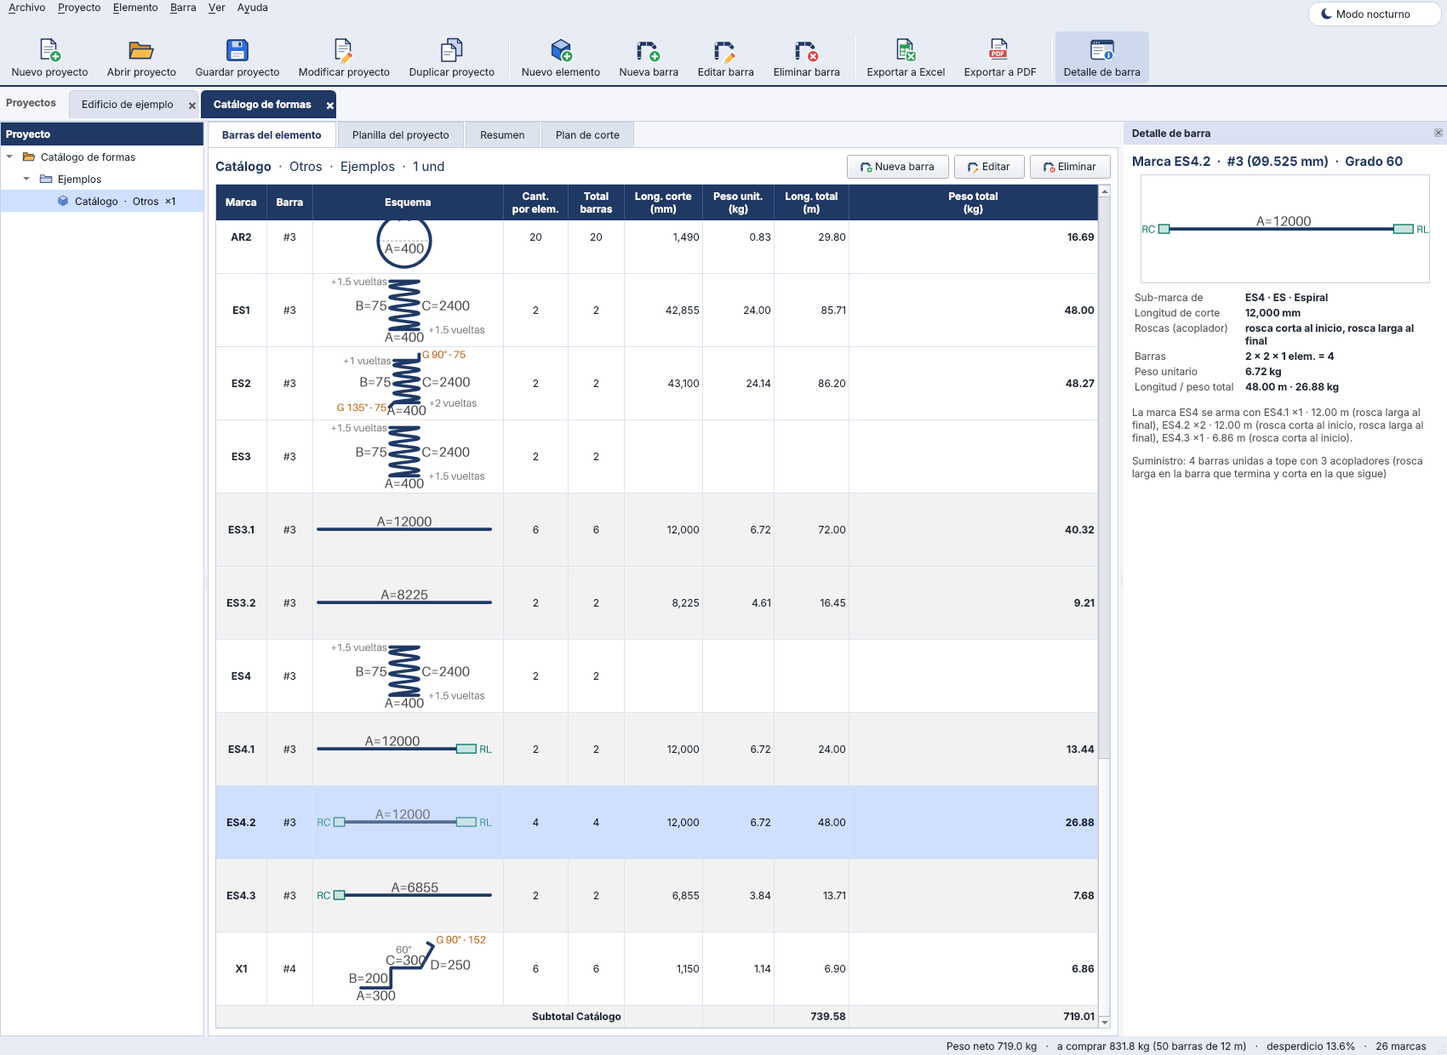
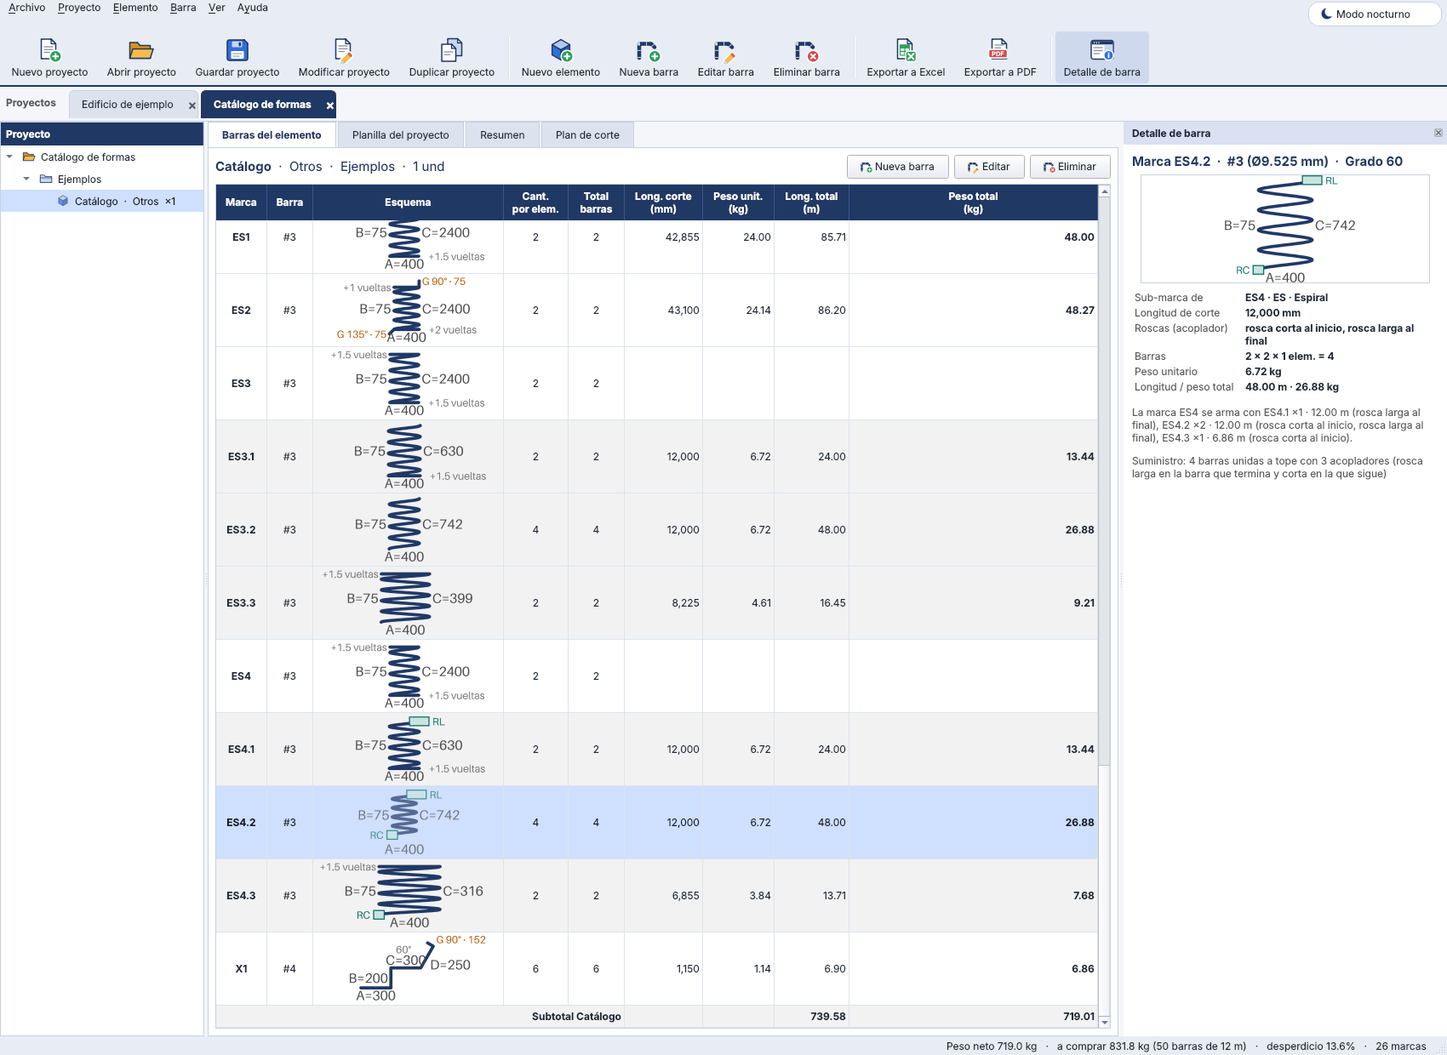
Sub-marks of a spiral are spirals too
Each sub-mark of a split spiral is drawn as a piece of the same helix (same diameter and pitch, with the height its
length gives), with the flat turns and hooks only on the first and last bars and the joint threads drawn on the ends.
The first and last bars are no longer grouped with the intermediate ones even when they have the same length. A bar that
only holds the flat turns or the hook is drawn straight.

Claude-Session: https://claude.ai/code/session_019hrinij2rWt56AxkR8wjd9

diff --git a/tests/test_spiral_supply.py b/tests/test_spiral_supply.py
@@ -95,9 +95,20 @@ def test_a_long_spiral_from_bars_is_lapped_by_default_with_the_standard_lap():
     assert joints == math.ceil((total - 609.6) / (STOCK - 609.6) - 1e-9) - 1
     assert supply.material_mm == pytest.approx(total + joints * standard_lap_mm(N4))
     assert supply.threads == () and supply.warnings == () and f"{joints} traslapes de 610 mm" in supply.notes[0]
-    # con traslape las barras no llevan roscas: las completas son una sola sub-marca y el resto, otra
-    assert [(p.length_mm, p.count) for p in supply.parts] == [(STOCK, joints), (pytest.approx(supply.pieces_mm[-1]), 1)]
-    assert [name for name, _ in supply.sub_marks("F1")] == ["F1.1", "F1.2"]
+    # con traslape las barras no llevan roscas, pero la primera (vueltas planas) y la última no son iguales a las intermedias
+    assert [(p.length_mm, p.count) for p in supply.parts] == [(STOCK, 1), (STOCK, joints - 1),
+                                                              (pytest.approx(supply.pieces_mm[-1]), 1)]
+    assert [(p.first, p.last) for p in supply.parts] == [(True, False), (False, False), (False, True)]
+    assert [name for name, _ in supply.sub_marks("F1")] == ["F1.1", "F1.2", "F1.3"]
+
+
+def test_a_spiral_without_flat_turns_or_hooks_groups_all_the_full_bars_in_one_sub_mark():
+    supply = Spiral(**BIG, turns_start=0, turns_end=0, supply_mode="bars").supply(N4, STOCK)
+    joints = len(supply.pieces_mm) - 1
+    assert [(p.length_mm, p.count, p.first, p.last) for p in supply.parts] == [
+        (STOCK, joints, False, False), (pytest.approx(supply.pieces_mm[-1]), 1, False, False)]
+    hooked = Spiral(**BIG, turns_start=0, turns_end=0, hook_end=90, supply_mode="bars").supply(N4, STOCK)
+    assert [(p.count, p.first, p.last) for p in hooked.parts] == [(joints, False, False), (1, False, True)]
 
 
 def test_a_custom_lap_is_used_and_a_short_one_gets_a_warning():
@@ -207,12 +218,12 @@ def test_a_lapped_spiral_weighs_and_counts_the_laps_and_enters_the_cutting_plan_
     assert sum(length * count for length, count in summary.pieces.items()) / 1000 == pytest.approx(line.total_length_m)
     assert summary.pieces[STOCK] == 6 * joints  # barras comerciales completas
     assert summary.coil_length_m == 0 and summary.stock_bars >= 6 * joints + 1
-    assert summary.marks_for(STOCK) == ("C-1/F1.1",) and "C-1/F1.2" in summary.marks_for(line.parts[1].length_mm)
+    assert summary.marks_for(STOCK) == ("C-1/F1.1", "C-1/F1.2") and summary.marks_for(line.parts[2].length_mm) == ("C-1/F1.3",)
     assert line.pieces_text.startswith(f"{joints} × 12.00 m + ")
     # los totales salen de las sub-marcas: suman lo mismo que la marca
     assert sum(p.total_weight_kg for p in line.parts) == pytest.approx(line.total_weight_kg)
     assert sum(p.total_length_m for p in line.parts) == pytest.approx(line.total_length_m)
-    assert [p.total_bars for p in line.parts] == [6 * joints, 6]
+    assert [p.total_bars for p in line.parts] == [6, 6 * (joints - 1), 6]
     assert result.total_weight_kg == pytest.approx(line.total_weight_kg)
 
 
@@ -330,3 +341,80 @@ def test_exports_list_the_sub_marks_as_rows_with_their_own_weights(tmp_path):
     assert "Suministro con uniones" not in texts
     pdf = PdfExporter().export(result, tmp_path / "p.pdf")
     assert pdf.stat().st_size > 5_000
+
+
+# ------------------------------------------------------------------ las sub-marcas de una espiral también son espirales
+def _part_shapes(shape, rebar=N4):
+    result = bbs(shape).lines[0]
+    return result, [part.shape for part in result.parts]
+
+
+def test_the_sub_marks_of_a_spiral_are_spirals_with_the_same_diameter_and_pitch():
+    line, shapes = _part_shapes(Spiral(**BIG, supply_mode="bars", joint="coupler"))
+    assert [type(sh).__name__ for sh in shapes] == ["Spiral"] * 3
+    assert all((sh.diameter, sh.pitch) == (1100.0, 100.0) for sh in shapes)
+    for part, sh in zip(line.parts, shapes):
+        assert sh.cut_length(N4).total_mm == pytest.approx(part.length_mm, abs=0.01)  # la espiral mide lo que la barra
+
+
+def test_flat_turns_and_hooks_go_only_on_the_first_and_last_bars_and_threads_on_the_joint_ends():
+    shape = Spiral(**BIG, turns_start=2.0, turns_end=1.0, hook_start=135, hook_end=90, supply_mode="bars", joint="coupler")
+    _, (first, middle, last) = _part_shapes(shape)
+    assert (first.turns_start, first.turns_end, first.hook_start, first.hook_end) == (2.0, 0.0, 135, 0)
+    assert (middle.turns_start, middle.turns_end, middle.hook_start, middle.hook_end) == (0.0, 0.0, 0, 0)
+    assert (last.turns_start, last.turns_end, last.hook_start, last.hook_end) == (0.0, 1.0, 0, 90)
+    assert (first.coupler_start, first.coupler_end) == ("none", "long")
+    assert (middle.coupler_start, middle.coupler_end) == ("short", "long")
+    assert (last.coupler_start, last.coupler_end) == ("short", "none")
+
+
+def test_the_turns_of_the_sub_marks_add_up_to_the_turns_of_the_spiral():
+    shape = Spiral(**BIG, supply_mode="bars", joint="coupler")
+    line, shapes = _part_shapes(shape)
+    total = sum(sh.turns(N4) * part.count for sh, part in zip(shapes, line.parts))
+    assert total == pytest.approx(shape.turns(N4), abs=0.1 * len(line.supply.pieces_mm))  # + el redondeo de 5 mm por barra
+
+
+def test_a_lapped_spiral_gives_spiral_sub_marks_without_threads():
+    _, shapes = _part_shapes(Spiral(**BIG, supply_mode="bars"))
+    assert [type(sh).__name__ for sh in shapes] == ["Spiral"] * 3
+    assert all((sh.coupler_start, sh.coupler_end) == ("none", "none") for sh in shapes)
+
+
+def test_a_last_bar_with_less_than_a_turn_of_helix_is_still_a_spiral_figure():
+    _, shapes = _part_shapes(Spiral(**BIG, supply_mode="bars"))  # a la última barra le caben 1.5 vueltas planas y 0.7 de hélice
+    last = shapes[-1]
+    assert type(last).__name__ == "Spiral" and last.turns_end == 1.5 and last.turns(N4) < 1.0
+
+
+def test_a_bar_that_only_holds_the_flat_turns_is_drawn_straight():
+    # 12.3 m desarrollados: la última barra mide ~0.3 m, menos que las vueltas planas del final (1.8 m): no hay hélice
+    shape = Spiral(400, 75, 545.0, supply_mode="bars", joint="coupler")
+    assert 12_250 < shape.cut_length(N4).total_mm < 12_450
+    line, shapes = _part_shapes(shape)
+    assert line.parts[-1].length_mm < 450 and type(shapes[-1]).__name__ == "StraightBar"
+    assert (shapes[-1].coupler_start, shapes[-1].coupler_end) == ("short", "none")
+    assert type(shapes[0]).__name__ == "Spiral"
+
+
+def test_the_spiral_sketch_draws_the_thread_boxes_of_a_sub_mark():
+    sketch = Spiral(400, 75, 800, coupler_start="short", coupler_end="long").sketch()
+    assert [(box.kind, box.text) for box in sketch.boxes] == [("short", "RC"), ("long", "RL")]
+    assert Spiral(400, 75, 800).sketch().boxes == ()
+
+
+def test_a_spiral_end_with_a_hook_does_not_accept_a_thread():
+    with pytest.raises(GeometryError, match="gancho"):
+        Spiral(400, 75, 800, hook_start=135, coupler_start="short")
+    Spiral(400, 75, 800, hook_start=135, coupler_end="short")  # el otro extremo sí
+
+
+def test_the_thread_parameters_of_the_spiral_are_not_in_the_form_but_are_saved():
+    hidden = {spec.name for spec in Spiral.parameters() if spec.hidden}
+    assert hidden == {"coupler_start", "coupler_end"}
+    shape = Spiral(400, 75, 800, coupler_start="short", coupler_end="long")
+    project = Project(name="P")
+    element = StructuralElement("C-1", ElementType.COLUMN)
+    element.add_group("F1", N4, shape, 1)
+    project.elements.append(element)
+    assert project_from_dict(project_to_dict(project)).elements[0].groups[0].shape == shape

diff --git a/core/shape_templates.py b/core/shape_templates.py
@@ -31,8 +31,8 @@ import math
 from dataclasses import dataclass, replace
 from typing import ClassVar
 
-from core.coupler import COUPLER_CHOICES
-from core.cutlength import CutLength, Supply
+from core.coupler import COUPLER_CHOICES, COUPLER_CODES
+from core.cutlength import BarPart, CutLength, Supply
 from core.geometry import GeometryError
 from core.params import param
 from core.polybar import (
@@ -69,7 +69,7 @@ from core.shape_codes import (
     migrate_single_hook,
     register_shape,
 )
-from core.sketch import DimLabel, Sketch, dimension_text, format_dimension, proportional
+from core.sketch import Box, DimLabel, Sketch, dimension_text, format_dimension, proportional
 
 
 def _use(style: str) -> BendUse:
@@ -488,6 +488,15 @@ class Spiral(ShapeCode):
                                  auto_text="estándar (48·d, mín. 300 mm)")
     joint_threads: str = param("Roscas de la unión", "choice", THREADS_LONG_SHORT, choices=JOINT_THREAD_CHOICES,
                                depends=(("supply_mode", SUPPLY_BARS), ("joint", JOINT_COUPLER)))
+    # Roscas de los extremos de un tramo de espiral (las de las uniones por acoplador): no se editan, las pone el cálculo
+    # de las sub-marcas para dibujar cada barra con su rosca.
+    coupler_start: str = param("Rosca inicial", "choice", "none", choices=COUPLER_CHOICES, hidden=True)
+    coupler_end: str = param("Rosca final", "choice", "none", choices=COUPLER_CHOICES, hidden=True)
+
+    def validate(self) -> None:
+        for kind, hook, name in ((self.coupler_start, self.hook_start, "inicial"), (self.coupler_end, self.hook_end, "final")):
+            if kind != "none" and hook:
+                raise GeometryError(f"Forma {self.code}: el extremo {name} termina en gancho y no admite rosca para acoplador.")
 
     @classmethod
     def migrate(cls, parameters: dict[str, object]) -> dict[str, object]:
@@ -546,8 +555,40 @@ class Spiral(ShapeCode):
             return Supply((total,), coil=True, notes=("Suministro: carrete (rollo continuo), sin uniones",))
         if total <= stock_length_mm + 1e-6:
             return Supply((total,), notes=("Suministro: una barra individual, sin uniones",))
+        # las vueltas planas y los ganchos son de la primera y la última barra: no se agrupan con las intermedias
+        special = (self.turns_start > 0 or bool(self.hook_start), self.turns_end > 0 or bool(self.hook_end))
         return joined_supply(rebar, total, stock_length_mm, joint=self.joint, lap_mm=self.lap_mm,
-                             threads=self.joint_threads)
+                             threads=self.joint_threads, special_ends=special)
+
+    def part_shape(self, rebar: Rebar, part: BarPart) -> ShapeCode:
+        """Cada sub-marca es también una espiral: un tramo de la misma hélice (mismo Ø y paso, con la altura que da su largo).
+
+        Las vueltas planas y el gancho de cada extremo van solo en la primera y la última barra, y las roscas de la unión
+        en los extremos que corresponden. Es una figura para dibujar (su hélice puede tener menos de una vuelta, y
+        entonces no pasa la validación de una espiral completa); si a la barra solo le caben las vueltas planas o el
+        gancho, no hay hélice y se dibuja recta.
+        """
+        d = rebar.diameter_mm
+        centre = math.pi * (self.diameter - d)
+        spec_start, spec_end = self._specs()
+        try:
+            hooks = hook_allowance(rebar, _round_use(rebar),
+                                   (spec_start if part.first else None, spec_end if part.last else None))
+            turns_start = self.turns_start if part.first else 0.0
+            turns_end = self.turns_end if part.last else 0.0
+            helix = part.length_mm - (turns_start + turns_end) * centre - hooks.arc_mm - hooks.extension_mm
+            turns = helix / math.hypot(centre, self.pitch)
+            if turns <= 1e-9:  # solo caben las vueltas planas o el gancho: no hay hélice que dibujar
+                return super().part_shape(rebar, part)
+            return Spiral(
+                diameter=self.diameter, pitch=self.pitch, height=turns * self.pitch + d,
+                turns_start=turns_start, turns_end=turns_end,
+                hook_start=self.hook_start if part.first else 0, ext_start=self.ext_start if part.first else None,
+                hook_end=self.hook_end if part.last else 0, ext_end=self.ext_end if part.last else None,
+                coupler_start=part.start_thread or "none", coupler_end=part.end_thread or "none",
+            )
+        except GeometryError:
+            return super().part_shape(rebar, part)
 
     def sketch(self, rebar: Rebar | None = None) -> Sketch:
         width, height = proportional([self.diameter, self.height], 0.6)
@@ -590,7 +631,11 @@ class Spiral(ShapeCode):
             if infos[slot] is not None:
                 labels.append(DimLabel(hook_label_text([infos[slot]]), tip,
                                        (-1.0, 0.0) if slot == 0 else (1.0, 0.0), kind="hook"))
-        return Sketch(paths=(tuple(path),), labels=tuple(labels))
+        boxes = tuple(Box(point, heading, kind, COUPLER_CODES[kind])
+                      for kind, point, heading in ((self.coupler_start, (0.0, 0.0), 180.0),
+                                                   (self.coupler_end, (width, height), 0.0))
+                      if kind in COUPLER_CODES)
+        return Sketch(paths=(tuple(path),), labels=tuple(labels), boxes=boxes)
 
 
 # ------------------------------------------------------------------ personalizada

diff --git a/core/splice.py b/core/splice.py
@@ -92,12 +92,15 @@ def pieces_text(pieces_mm: Iterable[float]) -> str:
 
 
 def plan_parts(total_mm: float, stock_mm: float, *, joint: str, lap_mm: float = 0.0,
-               threads: str = THREADS_LONG_SHORT, start_thread: str = "", end_thread: str = "") -> tuple[BarPart, ...]:
+               threads: str = THREADS_LONG_SHORT, start_thread: str = "", end_thread: str = "",
+               special_ends: tuple[bool, bool] = (False, False)) -> tuple[BarPart, ...]:
     """Sub-marcas en las que se divide una pieza de ``total_mm`` con barras de ``stock_mm``.
 
     ``start_thread`` y ``end_thread`` son las roscas propias de la pieza en sus dos puntas (las de una barra recta con
     rosca para otro acoplador); las de las uniones salen de ``threads``. Las barras idénticas se agrupan en una sub-marca:
-    con un acoplador queda la primera, las intermedias (``count`` > 1) y la última.
+    con un acoplador queda la primera, las intermedias (``count`` > 1) y la última. ``special_ends`` indica si el inicio y
+    el final de la pieza tienen algo propio (las vueltas planas y los ganchos de una espiral): entonces la primera o la
+    última barra no se agrupa con las intermedias aunque midan lo mismo.
     """
     if joint == JOINT_COUPLER:
         pieces = coupler_pieces(total_mm, stock_mm)
@@ -106,27 +109,31 @@ def plan_parts(total_mm: float, stock_mm: float, *, joint: str, lap_mm: float = 
         pieces = lap_pieces(total_mm, stock_mm, lap_mm)
         ending = following = ""
     last = len(pieces) - 1
-    grouped: dict[tuple[float, str, str], int] = {}
+    grouped: dict[tuple[float, str, str, bool, bool], int] = {}
     for index, length in enumerate(pieces):
-        bar = (length, start_thread if index == 0 else following, end_thread if index == last else ending)
+        bar = (length, start_thread if index == 0 else following, end_thread if index == last else ending,
+               special_ends[0] and index == 0, special_ends[1] and index == last)
         grouped[bar] = grouped.get(bar, 0) + 1
-    return tuple(BarPart(length, count, start, end) for (length, start, end), count in grouped.items())
+    return tuple(BarPart(length, count, start, end, first, final)
+                 for (length, start, end, first, final), count in grouped.items())
 
 
 def joined_supply(rebar: Rebar, total_mm: float, stock_mm: float, *, joint: str, lap_mm: float | None = None,
-                  threads: str = THREADS_LONG_SHORT, start_thread: str = "", end_thread: str = "") -> Supply:
+                  threads: str = THREADS_LONG_SHORT, start_thread: str = "", end_thread: str = "",
+                  special_ends: tuple[bool, bool] = (False, False)) -> Supply:
     """Barras que arman una pieza de ``total_mm`` mayor que la barra comercial, con sus uniones, notas y avisos."""
     warnings: tuple[str, ...] = ()
     if joint == JOINT_COUPLER:
         parts = plan_parts(total_mm, stock_mm, joint=joint, threads=threads, start_thread=start_thread,
-                           end_thread=end_thread)
+                           end_thread=end_thread, special_ends=special_ends)
         bars = sum(part.count for part in parts)
         notes = (f"Suministro: {bars} barras unidas a tope con {bars - 1} acopladores "
                  f"({_JOINT_THREAD_TEXT[threads]})",)
     else:
         standard = standard_lap_mm(rebar)
         lap = standard if lap_mm is None else lap_mm
-        parts = plan_parts(total_mm, stock_mm, joint=joint, lap_mm=lap, start_thread=start_thread, end_thread=end_thread)
+        parts = plan_parts(total_mm, stock_mm, joint=joint, lap_mm=lap, start_thread=start_thread, end_thread=end_thread,
+                           special_ends=special_ends)
         bars = sum(part.count for part in parts)
         if lap < standard - _EPS:
             warnings = (f"Traslape de {lap:.0f} mm menor que el de norma para espirales "

diff --git a/tests/test_gui.py b/tests/test_gui.py
@@ -522,7 +522,7 @@ def test_other_element_type_and_project_remnant_setting(qapp, window):
 def test_open_catalog_example_from_the_menu(window):
     window.open_catalog()
     assert window.project.name == "Catálogo de formas" and not window.modified
-    assert window.bars_table.rowCount() == 35  # 26 marcas + 8 sub-marcas (R4, ES3, ES4) + subtotal
+    assert window.bars_table.rowCount() == 36  # 26 marcas + 9 sub-marcas (R4, ES3, ES4) + subtotal
     pictures = [r for r in range(window.bars_table.rowCount()) if window.bars_table.line_for_row(r)]
     assert all(not window.bars_table.item(r, 2).icon().isNull() for r in pictures)
     assert window.plan_table.rowCount() > 1 and window.act_catalog.text().startswith("Abrir ejemplo")
@@ -892,3 +892,18 @@ def test_the_project_table_and_the_summary_show_sub_marks_acopladores_and_roscas
 
     titles = [label.text() for label in window.summary.findChildren(QLabel)]
     assert any("Acopladores y roscas por barra" in t for t in titles)
+
+
+def test_the_sub_rows_of_a_spiral_draw_spirals_and_the_detail_panel_shows_that_spiral(window):
+    from core.shape_templates import Spiral
+
+    _window_with_split_bars(window)
+    table = window.bars_table
+    spiral_row = table.row_of("F1")
+    assert type(table.line_for_row(spiral_row).shape) is Spiral
+    parts = [table.part_for_row(spiral_row + k) for k in (1, 2, 3)]
+    assert [type(p.shape) for p in parts] == [Spiral, Spiral, Spiral]
+    table.selectRow(spiral_row + 2)  # F1.2: la espiral intermedia
+    details = window.detail.details.text()
+    assert "F1.2" in window.detail.title.text() and "rosca corta al inicio, rosca larga al final" in details
+    assert window.detail.preview.pixmap() is not None and not window.detail.preview.pixmap().isNull()

diff --git a/core/shape_codes.py b/core/shape_codes.py
@@ -35,7 +35,7 @@ from dataclasses import dataclass, fields, replace
 from typing import ClassVar, TypeVar
 
 from core.coupler import COUPLER_CHOICES, COUPLER_NONE  # noqa: F401 (se reexporta)
-from core.cutlength import CutLength, HookInfo, Supply  # noqa: F401 (se reexportan)
+from core.cutlength import BarPart, CutLength, HookInfo, Supply  # noqa: F401 (se reexportan)
 from core.geometry import GeometryError  # noqa: F401
 from core.params import DEFAULT_LENGTH_MM, ParamSpec, param, validate_param  # noqa: F401
 from core.polybar import (  # noqa: F401
@@ -148,6 +148,15 @@ class ShapeCode(ABC):
         varias barras unidas lo sobrescribe.
         """
         return Supply((self.cut_length(rebar).total_mm,), coil=type(self).from_coil)
+
+    def part_shape(self, rebar: Rebar, part: BarPart) -> ShapeCode:
+        """Forma con la que se dibuja la sub-marca ``part`` de una pieza dividida en barras.
+
+        Por defecto, una barra recta del largo de ``part`` con la rosca de cada extremo; una forma cuyas sub-marcas
+        conserven su figura (la espiral) lo sobrescribe.
+        """
+        none = COUPLER_NONE
+        return StraightBar(part.length_mm, coupler_start=part.start_thread or none, coupler_end=part.end_thread or none)
 
     def sketch(self, rebar: Rebar | None = None) -> Sketch:
         """Esquema para planillas e interfaz; con ``rebar`` incluye el largo de los ganchos.

diff --git a/engine/bbs_calculator.py b/engine/bbs_calculator.py
@@ -20,11 +20,11 @@ from collections.abc import Iterable, Mapping, Sequence
 from dataclasses import dataclass, field, replace
 from itertools import groupby
 
-from core.coupler import COUPLER_LONG, COUPLER_NONE, COUPLER_ORDER, COUPLER_SHORT, coupler_count, coupler_text
+from core.coupler import COUPLER_LONG, COUPLER_ORDER, COUPLER_SHORT, coupler_count, coupler_text
 from core.cutlength import BarPart, Supply
 from core.element import RebarGroup, StructuralElement
 from core.rebar import Rebar
-from core.shape_codes import ShapeCode, StraightBar
+from core.shape_codes import ShapeCode
 from core.splice import parts_text, pieces_text
 from engine.cutting_optimizer import CuttingPlan, compare_stock_lengths, optimize_cutting
 
@@ -476,8 +476,7 @@ class BBSCalculator:
             LinePart(
                 mark=sub_mark,
                 part=part,
-                shape=StraightBar(part.length_mm, coupler_start=part.start_thread or COUPLER_NONE,
-                                  coupler_end=part.end_thread or COUPLER_NONE),
+                shape=group.shape.part_shape(group.rebar, part),
                 total_bars=part.count * total_bars,
                 unit_weight_kg=group.rebar.mass_for_length(part.length_mm / 1000.0),
                 total_length_m=part.count * total_bars * part.length_mm / 1000.0,

diff --git a/core/cutlength.py b/core/cutlength.py
@@ -34,12 +34,17 @@ class BarPart:
             son todas iguales: se agrupan en una sola sub-marca).
         start_thread: Rosca del extremo inicial (``"short"``, ``"long"`` o ``""`` si no la lleva).
         end_thread: Rosca del extremo final.
+        first: Es la primera barra de la pieza y la forma tiene algo propio en su inicio (vueltas planas o gancho de una
+            espiral): no se agrupa con las barras intermedias aunque midan lo mismo.
+        last: Lo mismo para la última barra y el final de la pieza.
     """
 
     length_mm: float
     count: int = 1
     start_thread: str = ""
     end_thread: str = ""
+    first: bool = False
+    last: bool = False
 
     @property
     def threads(self) -> tuple[str, ...]:

diff --git a/README.md b/README.md
@@ -124,7 +124,13 @@ Se cortan tantas barras de longitud comercial completa como quepan y la última 
 traslape `ℓ` y barra `S`; `⌈L/S⌉` con acoplador). La marca se divide en **sub-marcas**: si la marca es `A1`, las barras salen como
 `A1.1`, `A1.2`… y **las barras idénticas se agrupan** en una sola con su cantidad. Con acoplador de roscas larga + corta, una barra de
 30 m queda `A1.1` (12 m, rosca larga al final), `A1.2` (12 m, rosca corta al inicio y larga al final) y `A1.3` (6 m, rosca corta al
-inicio); con dos barras, solo `A1.1` y `A1.2`. Con traslape, `A1.1` (las barras completas ×n) y `A1.2` (el resto).
+inicio); con dos barras, solo `A1.1` y `A1.2`. Con traslape en una barra recta, `A1.1` (las barras completas ×n) y `A1.2` (el resto).
+
+**Si la marca es una espiral, sus sub-marcas también son espirales**: cada una es un tramo de la misma hélice (mismo diámetro y paso, con la
+altura que le toca por su largo), con las roscas de la unión dibujadas en sus extremos. Las vueltas planas y los ganchos de la espiral van solo
+en la primera y la última barra, así que estas no se agrupan con las intermedias aunque midan lo mismo: con traslape o con acoplador una
+espiral queda `A1.1` (primera), `A1.2` (intermedias ×n) y `A1.3` (última). Una barra a la que solo le caben las vueltas planas o el gancho
+(sin hélice) se dibuja recta.
 
 En la planilla (interfaz, Excel y PDF) la fila de la marca `A1` conserva su dibujo y sus cotas, y **debajo** van las sub-filas con la barra
 recta, su longitud, la rosca de cada extremo (`RC` / `RL`) y sus propias cantidades y pesos: **los totales salen de las sub-marcas** y no se
